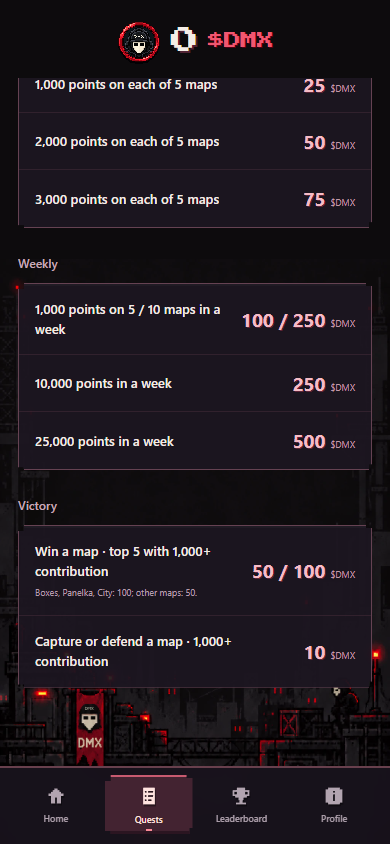
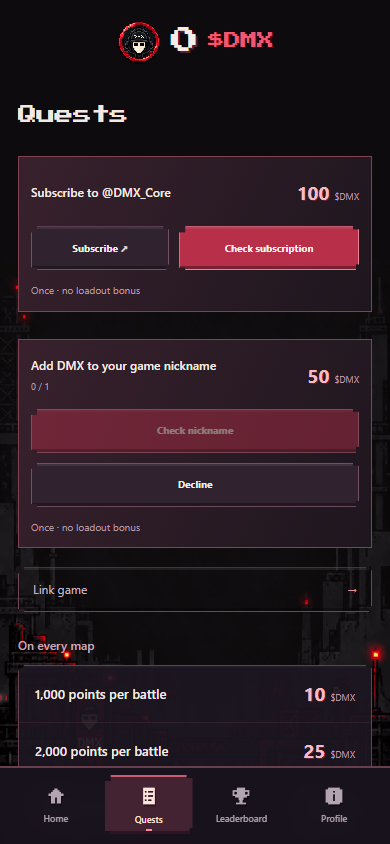
Polish portfolio documentation and screenshots

diff --git a/README.md b/README.md
@@ -75,6 +75,8 @@ npm run qa:beta
 
 The suite starts its own local static server and mocks API responses. No live accounts or keys are required. Set `PLAYWRIGHT_CHANNEL=chrome` only if testing with an installed Google Chrome browser.
 
+An optional GitHub Actions example is provided in `docs/ci-checks.example.yml`. It is a template, not an enabled workflow. The separate [PWTRADE marketplace](https://github.com/KuPuLL73/pwtrade-market) has its own portfolio repository.
+
 ## Deployment
 
 This source snapshot references the public bot/channel and current service endpoints for context. These are not deployment credentials. Deploy a separate instance using your own Telegram Serverless project and Cloudflare account. The Cloudflare account ID has been removed from the public configuration.
